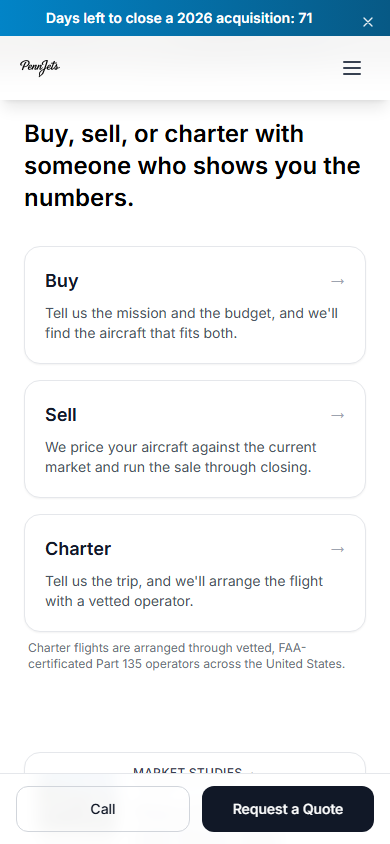
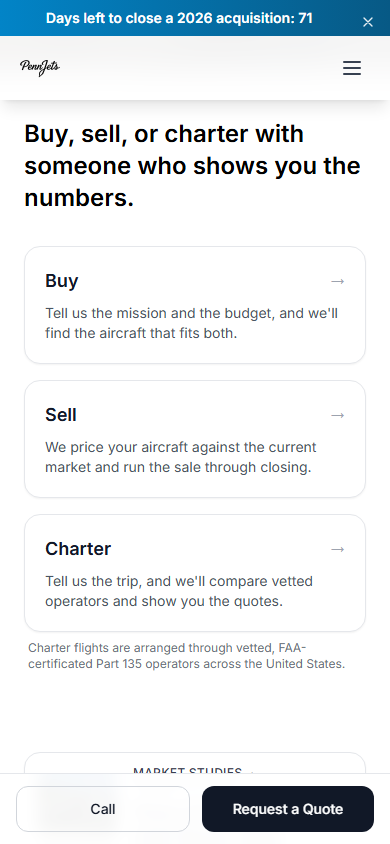
Report WO-4.52 addendum: row 9 applied, home-tiles-390 retaken, t4/work merged onto main 9974bfa

Changed region(s): [[0.1231, 0.6777, 0.8308, 0.7393]]

diff --git a/docs/reports/t4/WO-4.52.md b/docs/reports/t4/WO-4.52.md
@@ -266,3 +266,7 @@ lead's build at the merge is the evidence.
 The commits are `215fe49` (the work) and `3ef6743` (the tile height).
 Neither build changed a cache. Only this repository was touched. My preview
 is stopped, and no node process of mine is running.
+
+## Addendum, 2026-10-21: row 9 and the merge onto main
+
+Row 9 now reads **"Tell us the trip, and we'll compare vetted operators and show you the quotes."** (Joseph; the other 21 rows approved as written). Commit `b35b9cd`; `Home.test.jsx` pins all three tile sentences; `home-tiles-390.png` retaken (tiles 342 × 118 each, stacked). `t4/work` was **merged** with the new `main` (`9974bfa`, PR #14) in `e0d80e8`, not rebased, so no pushed history was rewritten; `main` is an ancestor of `t4/work`. Build after the merge: exit 0, 33 HTML files, no request reached the CRM; Home tests 21/21, lint 0.
